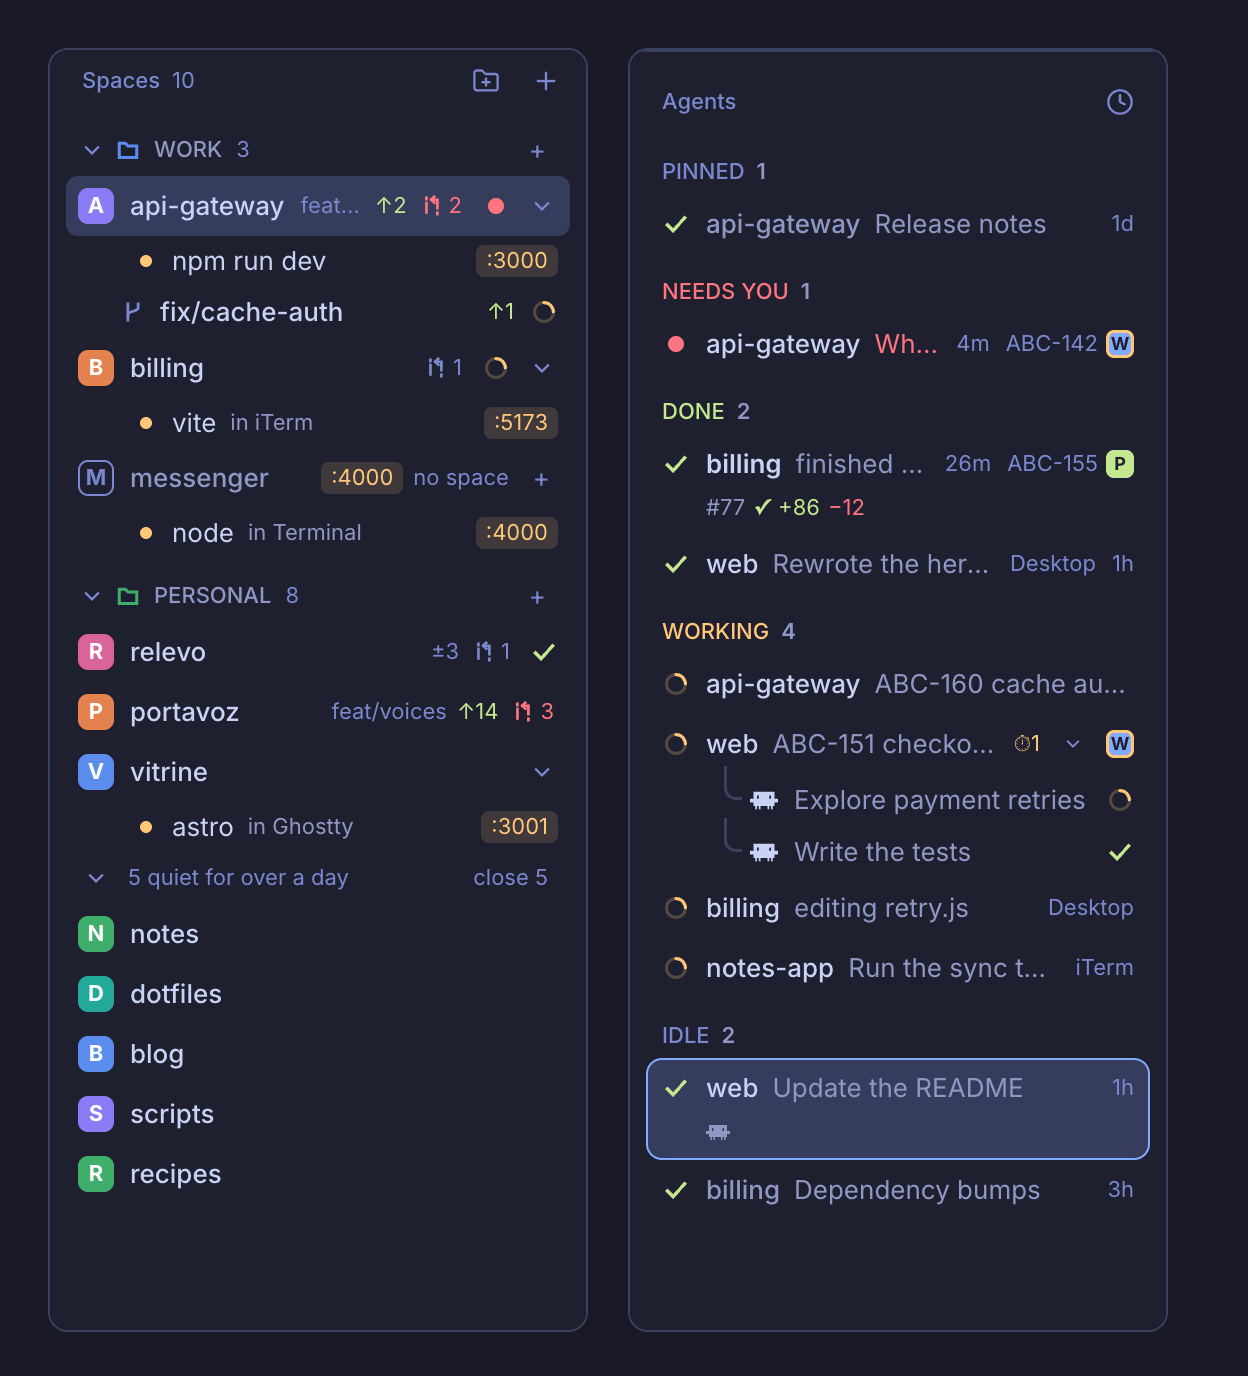
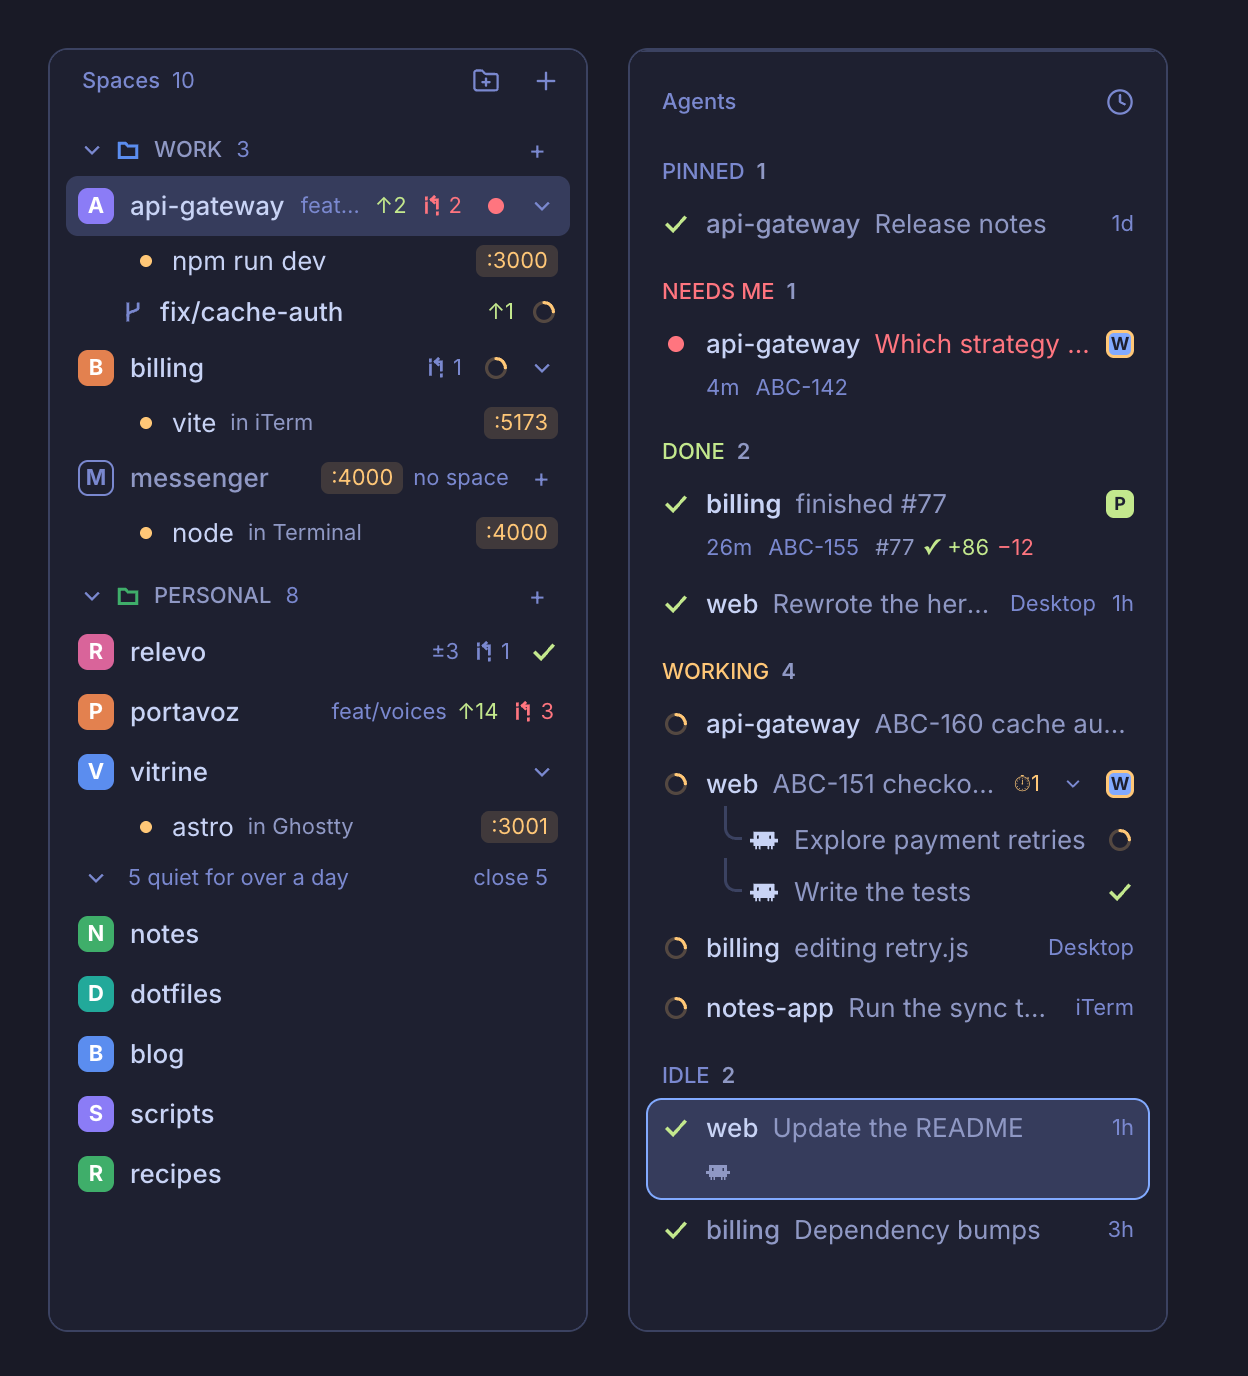
feat: calmer lists, Needs me everywhere
Spaces lists a space's commands that run, listen on a port or failed, and
leaves out a resting shell, which Maintenance still tidies.

In Agents, a row that waits on you keeps its first line for the reason:
its age and ticket move to the line below until the row is selected. The
section is called Needs me, as in Reviews and Runs.

diff --git a/mods/relevo-agents/main.js b/mods/relevo-agents/main.js
@@ -123,7 +123,7 @@ const SORTS = [
 const sortOf = () => SORTS.find((s) => s.id === shared("agents.sort")) ?? SORTS[0];
 // Herdr's own states, one section each; done means a result not seen yet.
 const SECTION = {
-  4: { id: "sec-me", label: "Needs you", status: "blocked" }, 3: { id: "sec-done", label: "Done", status: "done" },
+  4: { id: "sec-me", label: "Needs me", status: "blocked" }, 3: { id: "sec-done", label: "Done", status: "done" },
   2: { id: "sec-flight", label: "Working", status: "working" }, 1: { id: "sec-idle", label: "Idle", status: null },
 };
 // Past this share of its window an agent's context shows on its line.
@@ -185,8 +185,8 @@ function backgroundTag(t, a, labels) {
 // A letter inside a 14px chip, not text to read.
 const CHIP_LETTER = 9;
 
-function accountTag(t, a, labels, pane) {
-  const accounts = setup().accounts, acc = accounts[labels["agent.account"]], jira = labels["agent.jira"];
+function accountTag(t, a, labels, pane, { ticket = true } = {}) {
+  const accounts = setup().accounts, acc = accounts[labels["agent.account"]], jira = ticket ? labels["agent.jira"] : null;
   if (!acc && !jira) return null;
   // A repo's account is a Claude one, so Codex can't be borrowing it.
   const borrowed = acc && labels["agent.account"] !== "codex" && labels["agent.account"] !== repoAccount(pane?.cwd ?? a.cwd);
@@ -547,13 +547,16 @@ export default class Agents extends View {
     const reasons = shared("relevo.reasons") ?? {}, folders = shared("space-folders"), agentPRs = shared("relevo.agentPRs") ?? {};
     const contexts = shared("relevo.agentContext") ?? {};
     const row = (a, i, subs = []) => {
-      const tag = accountTag(t, a, labels.get(a.address) ?? {}, paneOf.get(a.pane));
-      const bg = backgroundTag(t, a, labels.get(a.address) ?? {});
+      // A settled result has been dealt with, so it no longer waits on me.
+      const turn = isSettled(a) ? plainTurn(a.status) : this.turnOf(a), me = turn === "me";
+      // What waits on me keeps its first line for the reason: its ticket and age go to the line below.
+      const queued = byPriority && !a.pinned && !isSettled(a) && (me || this.rank(a) === RANK.done), tight = queued && !a.focused;
+      const own = labels.get(a.address) ?? {};
+      const tag = accountTag(t, a, own, paneOf.get(a.pane), { ticket: !tight });
+      const bg = backgroundTag(t, a, own);
       const more = detail.get(a.address);
       // An agent on another machine (`vps/t7`) says which.
       const machine = a.address.includes("/") ? a.address.split("/")[0] : null;
-      // A settled result has been dealt with, so it no longer waits on me.
-      const turn = isSettled(a) ? plainTurn(a.status) : this.turnOf(a), me = turn === "me";
       if (collapsed) {
         return h_flex()
           .id(`ag-${a.address}`)
@@ -638,7 +641,7 @@ export default class Agents extends View {
         .when(this.hovered === a.address, el => el.child(reply)
           .when(rested, (el) => el.child(this.settleButton(t, a, all, isSettled(a))))
           .child(pin))
-        .when(this.hovered !== a.address && a.status !== "working" && Boolean(when), el => el.child(div().id(`age-${a.address}`).flex_none().text_size(11).text_color(t.dim).child(duration(now - when))))
+        .when(this.hovered !== a.address && a.status !== "working" && Boolean(when) && !tight, el => el.child(div().id(`age-${a.address}`).flex_none().text_size(11).text_color(t.dim).child(duration(now - when))))
         .when(Boolean(tag), el => el.child(tag));
       // The second line, built for the selected agent only: what every row used to carry.
       const below = () => {
@@ -657,19 +660,20 @@ export default class Agents extends View {
           .when(Boolean(folder), (el) => el.child(div().id(`folder-${a.address}`).flex_none().max_w(110).truncate().child(folder)))
           .when(Boolean(extra), (el) => el.child(div().id(`detail-${a.address}`).flex_1().min_w(0).truncate().child(extra)));
       };
-      // By state, what waits on me carries one dim line: its branch, its PR, and its context once nearly full.
+      // By state, what waits on me carries one dim line: its age, ticket, branch, PR, and its context once nearly full.
       const meta = () => {
-        const ctx = contexts[a.address], raw = paneOf.get(a.pane)?.branch;
+        const ctx = contexts[a.address], raw = paneOf.get(a.pane)?.branch, ticket = own["agent.jira"];
         const branch = raw && raw !== "main" && raw !== "master" ? raw : null;
         const pct = ctx ? Math.round(Math.min(100, (ctx.context / (ctx.context > WINDOW ? LONG_WINDOW : WINDOW)) * 100)) : 0;
-        if (!(branch || pr || pct >= CTX_WARN)) return null;
+        if (!(when || ticket || branch || pr || pct >= CTX_WARN)) return null;
         return h_flex().id(`meta-${a.address}`).h(16).mb(4).pl(GUTTER).gap(8).items_center().overflow_hidden().text_size(11).text_color(t.dim)
+          .when(Boolean(when), (el) => el.child(div().id(`age-${a.address}`).flex_none().child(duration(now - when))))
+          .when(Boolean(ticket), (el) => el.child(div().id(`ticket-${a.address}`).flex_none().child(ticket)))
           .when(Boolean(branch), (el) => el.child(div().flex_shrink(1).min_w(0).truncate().child(branch)))
           .when(Boolean(pr), (el) => el.child(prTag(t, a, pr)))
           .when(pct >= CTX_WARN, (el) => el.child(div().id(`ctx-hot-${a.address}`).flex_none().text_color(t.ansi3)
             .tooltip(`${pct}% of its context window used`).child(`ctx ${pct}%`)));
       };
-      const queued = byPriority && !isPinned && !isSettled(a) && (turn === "me" || this.rank(a) === RANK.done);
       const second = selected ? below() : queued ? meta() : null;
       return v_flex()
         .id(`ag-${a.address}`)

diff --git a/mods/relevo-spaces/model.js b/mods/relevo-spaces/model.js
@@ -89,10 +89,11 @@ export function aliveBySpace(rows, { agents = [], desktop = [], elsewhere = [], 
   for (const a of agents) by.get(a.space)?.agents.push(a);
   for (const s of desktop) put(s.cwd, "sessions", { ...s, from: "desktop" }, s.project);
   for (const s of elsewhere) put(s.cwd, "sessions", { ...s, from: "elsewhere" }, s.project);
-  // A finished terminal is Maintenance's to tidy, not something alive here.
-  for (const t of (alive?.terminals ?? []).filter((x) => x.live)) {
-    if (by.has(t.spaceId)) by.get(t.spaceId).terminals.push(t);
-    else put(t.cwd, "terminals", t);
+  // What runs, listens, or failed in its space; a resting shell or a clean finish is Maintenance's to tidy.
+  for (const t of alive?.terminals ?? []) {
+    const running = t.live && (t.state === "running" || (t.ports ?? []).length > 0);
+    if (by.has(t.spaceId) && (running || t.state === "failed")) by.get(t.spaceId).terminals.push(t);
+    else if (running) put(t.cwd, "terminals", t);
   }
   for (const s of alive?.outside ?? []) put(s.cwd, "servers", s);
   return { by, loose: [...loose.values()] };

diff --git a/CHANGELOG.md b/CHANGELOG.md
@@ -2,8 +2,9 @@
 
 ## Unreleased
 
+- **Calmer lists.** Spaces lists a space's commands that run, listen on a port or failed, and leaves out a resting shell, which Maintenance still tidies. In Agents, a row that waits on you keeps its first line for the reason: its age and ticket move to the line below until you select it. The Agents section is called **Needs me**, as in Reviews and Runs.
 - **Spaces starts open.** Every space shows its terminals and servers, not only the one you are in, and the "N quiet for over a day" line and the "no space" rows start open too. A chevron still folds one, and it stays folded.
-- **Agents by state again, everything shown.** The priority view has one section per Herdr state, **Needs you**, **Done**, **Working** and **Idle**, each with its count and colored like its state. Nothing folds on its own: every working and idle agent is listed, and Settled sits last, open. Claude Desktop sessions and Claude Code in other terminals join the section of their state. Spaces no longer lists agents or Claude sessions; it shows terminals and servers, and a repo gets a "no space" row only for a terminal or a server.
+- **Agents by state again, everything shown.** The priority view has one section per Herdr state, **Needs me**, **Done**, **Working** and **Idle**, each with its count and colored like its state. Nothing folds on its own: every working and idle agent is listed, and Settled sits last, open. Claude Desktop sessions and Claude Code in other terminals join the section of their state. Spaces no longer lists agents or Claude sessions; it shows terminals and servers, and a repo gets a "no space" row only for a terminal or a server.
 - **Pictures of the new left bar.** The README shows Spaces by folder beside the Agents queue, and the preview shows the left bar as it is now, Spaces above the queue, both drawn from the mods with demo data.
 - **Terminals live in Spaces now.** The Terminals tab is gone: every terminal, its port and its actions show under its repo in Spaces, and Maintenance still lists the ones to tidy. The panel's tabs are Reviews and Runs again, and Issues is back on `⌥⌘5`. Your `keys.json` keeps the key you had until you change it: set `cmd-alt-5` to `relevo.panel-issues`.
 - **Agents is a queue by turn.** In the priority view the list reads top to bottom as what to do next: **Needs me** (what asks), **Came back** (a result you have not looked at, its name in bold until you do), then what works on one line, "2 working · billing · api", that opens on a click. Idle agents leave the list and live under their repo in Spaces; "3 resting in their spaces" opens them. Claude Desktop sessions and Claude Code in other terminals join the queue by their turn instead of separate groups. Each row that waits on you carries one dim line with its branch, its PR and its context once past 80%.

diff --git a/RECIPE.md b/RECIPE.md
@@ -148,10 +148,10 @@ task to another account.
   then what it is doing or needs in muted text (the waiting reason in `blocked`, its tab, "writing #43", "finished #40"), the age when it rests
   and the account chip. The focused agent has a full 1 px `accent` outline over `selected` and a second line: PR tag
   with CI and size, `Opus 5.5`, a context band and `273k`, `· cache 48m` (`ansi3` under 10 minutes, "cache gone"
-  after), machine and folder. Priority has one section per Herdr state, all open: **NEEDS YOU** (`blocked`), **DONE**
+  after), machine and folder. Priority has one section per Herdr state, all open: **NEEDS ME** (`blocked`), **DONE**
   (`done`, a result not seen yet), **WORKING** (`working`) and **IDLE**, each header in its state's color with its count;
-  a click on a header folds it. Rows in Needs you and Done carry one 11px line under them (the branch when not main, the
-  PR tag, `ctx 86%` in `ansi3` from 80%). Claude Desktop sessions (marked "Desktop") and Claude Code in terminals
+  a click on a header folds it. Rows in Needs me and Done carry one 11px line under them (their age and ticket, which leave the first line
+  to the reason until the row is selected, the branch when not main, the PR tag, `ctx 86%` in `ansi3` from 80%). Claude Desktop sessions (marked "Desktop") and Claude Code in terminals
   outside Herdr (Terminal, iTerm, VS Code, Ghostty…, noted by the hook, with the app's name) join the section of their
   state. A ✓ on hover settles an idle or done agent under a **SETTLED** group, last and open. Each reads like an agent: what it is doing now ("editing ui.js"),
   what it asks, or its last words, from the end of its local transcript. A click opens its last message in place, with
@@ -390,7 +390,7 @@ Text is 11px for what supports a row and 13px for what it names; a test keeps it
   `model.js` builds the groups and the order the spaces move to. Git is read again when a place is new, when a
   command or an agent's turn ends, when the repo's git folder changes and once a minute while the window is in front.
   Every space, the folders, the quiet line and the "no space" rows start open; a chevron closes one and localStorage
-  `closed` remembers it. An open space lists its live terminals and outside
+  `closed` remembers it. An open space lists its terminals that run, listen or failed (not a resting shell) and outside
   servers from `aliveBySpace` (servers by folder, the deepest space's repo; terminals by space); agents and Claude
   sessions are placed too, but only to keep a space from going quiet, and are drawn in Agents alone. The data comes from shared `relevo.alive`, which the Relevo mod's `AliveWatch` (`alive.js`) writes every 10 s while the
   window is in front (terminal rows with ports, and `outsideServers`: listening processes no Herdr terminal owns, run from

diff --git a/README.md b/README.md
@@ -86,13 +86,13 @@ repo one row: its branch when it is not main, how far it is ahead or behind, how
 agent there needs you. A worktree sits under its checkout. Drag a space onto a folder to keep it there. The list
 order is the spaces' order, so Herdr's `⌃1`…`⌃9` go to the row you see.
 
-Every space shows what runs in that repo: every terminal with the port it listens on (Restart, Stop
-and Close on hover), and servers started in other apps ("vite in Ghostty :5173"). Agents and Claude sessions are listed in
+Every space shows what runs in that repo: each command that runs, listens on a port or failed (Restart, Stop
+and Close on hover; a resting shell stays out), and servers started in other apps ("vite in Ghostty :5173"). Agents and Claude sessions are listed in
 Agents only. Nothing is folded until you fold it: a space's chevron closes it (its port then shows on its row), and
 it stays closed. A repo with a terminal or server but no space is a "no space" row in its folder, with `+` to give it
 one.
 
-The Agents list has one section per state, **Needs you**, **Done**, **Working** and **Idle**, and shows every agent;
+The Agents list has one section per state, **Needs me**, **Done**, **Working** and **Idle**, and shows every agent;
 a section folds only when you click its header.
 
 ![Spaces by folder with what runs in the open repo, beside the Agents list](screenshots/spaces.png)
